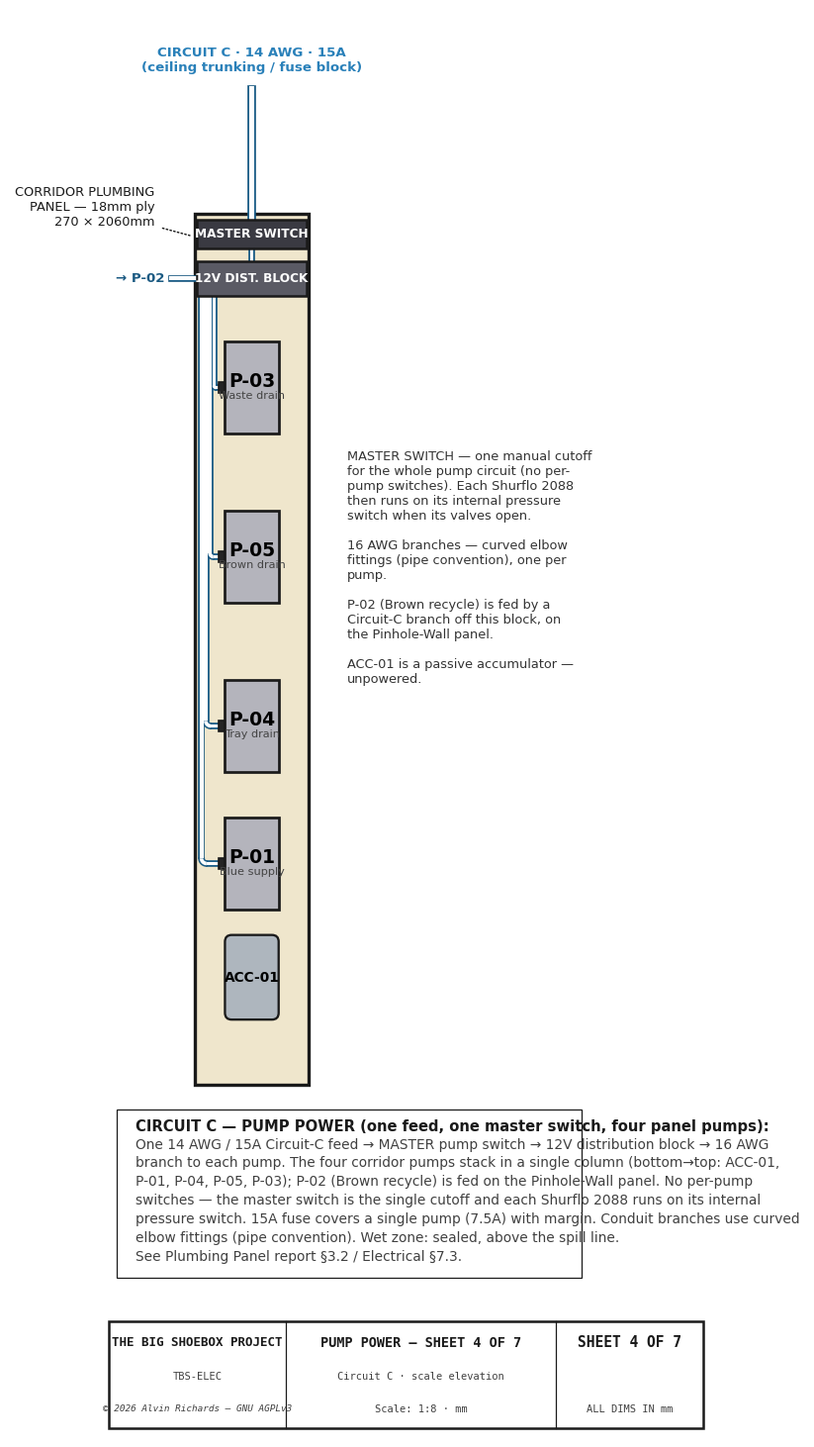
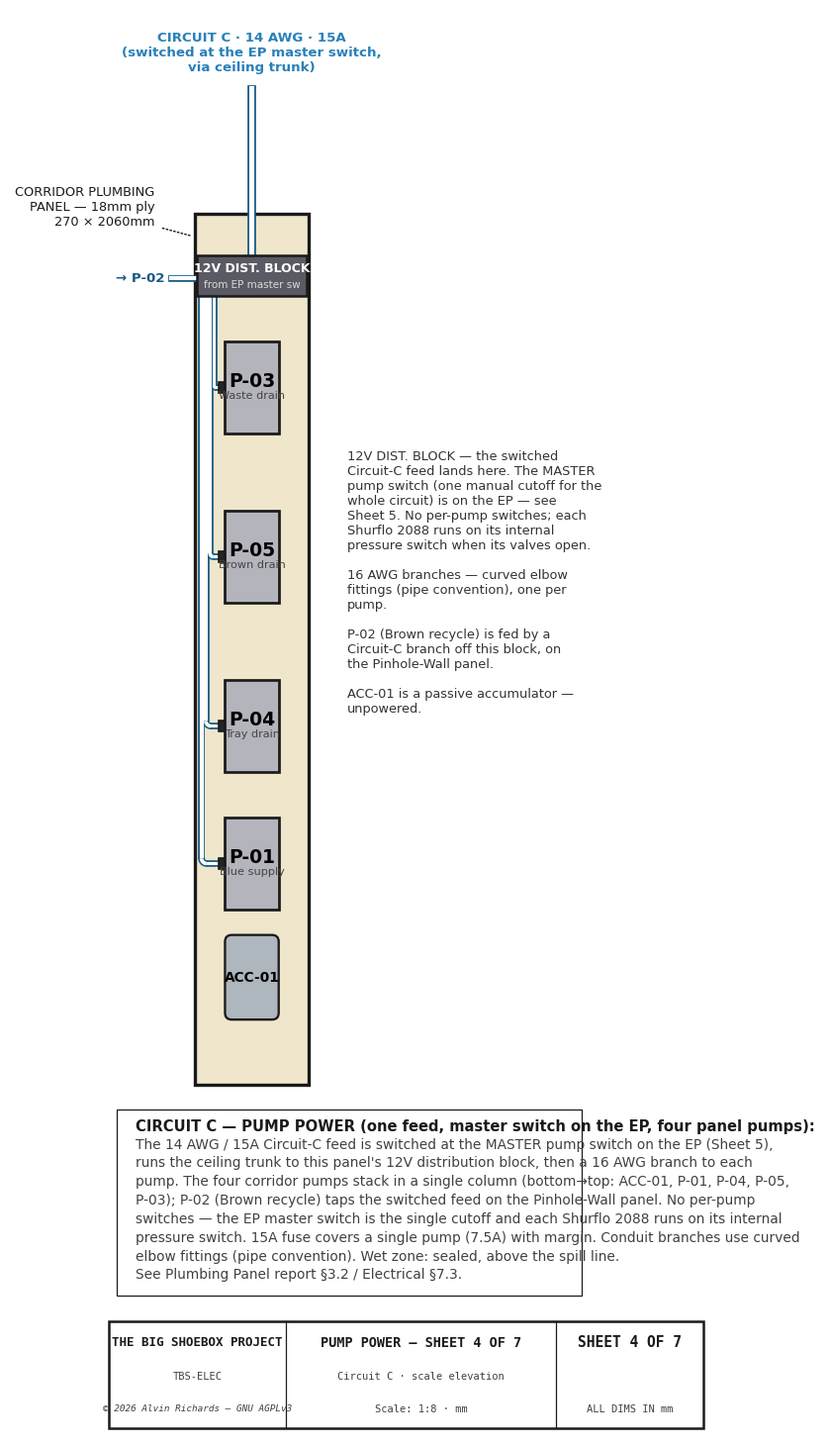
electrical: cascade master pump switch onto the EP (2D + reports + 3D code)
The pump master switch moved from the corridor plumbing panel to the Electrical Panel (EP)
— one upstream cutoff for the whole pump circuit; the corridor panel keeps only the 12V
distribution block (fed from the EP), and P-02 taps the switched feed. Cascade:
- 2D: electrical-sheet4 (pump power) — removed the master-switch bar, feed now arrives from
  the EP master switch into the dist block; electrical-sheet5 (EP layout) — added the red-lever
  master pump switch on the EP, fed from the Cct-C fuse, exiting to the pumps. (Also fixed the
  sheet-5 fuse-schedule label Equip->Plumbing panel.)
- Reports: electrical §7.3/§7.4 sheet4+sheet5 captions/§8 parts rows; plumbing §3.2 + §Access.
  Fixed stale §8 footnote figures (5 pump switches->1 master; $1,015->$989 = $2,324; $45->$25).
- parts.py: master-switch spec notes 'mounted on the EP' (qty/cost unchanged; parts+costing green).
- 3D code: electrical model _pump_circuit + overview electrical() — master switch box + red lever
  on the EP front at the Cct-C fuse (removed the old equipment-panel switch). Needs --send.

Gates: lint + parts/costing checks + check_consistency green.

diff --git a/src/generators/generate_electrical_diagram.py b/src/generators/generate_electrical_diagram.py
@@ -1416,9 +1416,10 @@ def draw_sheet4():
 
     Engineering elevation of the corridor plumbing panel (matches panel-layout.png):
     the single vertical pump column (ACC-01 + P-01/P-04/P-05/P-03) drawn to scale,
-    powered from ONE master switch → 12V distribution block → curved-elbow branches
-    to each pump. No per-pump switches — each Shurflo runs on its internal pressure
-    switch; the master switch is the single manual cutoff. P-02 (Brown recycle) is on
+    powered from a 12V distribution block that is fed from the MASTER pump switch on
+    the EP (electrical panel) via the ceiling trunk → curved-elbow branches to each
+    pump. No per-pump switches — each Shurflo runs on its internal pressure switch;
+    the EP master switch is the single manual cutoff. P-02 (Brown recycle) is on
     the pinhole-wall panel, shown as an off-panel branch. Routing follows pipe
     conventions (parallel-wall conduit + curved elbow fittings, never hard corners).
     """
@@ -1458,19 +1459,17 @@ def draw_sheet4():
         ax.add_patch(R((p_left - 15, tz - 13), 15, 26, fc="#242424", ec=C_OUT, lw=0.8, zorder=7))
         term[nm] = (p_left - 15, tz)                      # terminal left face (branch lands here)
 
-    # ── Master switch + 12V distribution block: full-width header bars above P-03 ──
+    # ── 12V distribution block: full-width header bar (fed from the EP master switch) ──
     mcx = PW / 2
-    ax.add_patch(R((6, 1978), PW - 12, 68, fc="#3A3A42", ec=C_OUT, lw=1.2, zorder=7))
-    ax.text(mcx, 2012, "MASTER SWITCH", ha="center", va="center", fontsize=5.8,
+    ax.add_patch(R((6, 1866), PW - 12, 96, fc="#5A5A64", ec=C_OUT, lw=1.2, zorder=7))
+    ax.text(mcx, 1930, "12V DIST. BLOCK", ha="center", va="center", fontsize=6.0,
             color="white", fontweight="bold", zorder=9)
-    ax.add_patch(R((6, 1866), PW - 12, 82, fc="#5A5A64", ec=C_OUT, lw=1.2, zorder=7))
-    ax.text(mcx, 1907, "12V DIST. BLOCK", ha="center", va="center", fontsize=5.8,
-            color="white", fontweight="bold", zorder=9)
-    draw_pipe_path(ax, [mcx, mcx], [1978, 1948], 12, 2.0, fc=CC, ec=CDK, zorder=5)   # switch → block
+    ax.text(mcx, 1892, "from EP master sw", ha="center", va="center", fontsize=5.0,
+            color="#DADADA", zorder=9)
 
-    # ── Circuit-C feed from ceiling trunking into the master switch ──
-    draw_pipe_path(ax, [mcx, mcx], [PH + 300, 2046], 17, 2.5, fc=CC, ec=CDK, zorder=5)
-    ax.text(mcx, PH + 330, "CIRCUIT C · 14 AWG · 15A\n(ceiling trunking / fuse block)",
+    # ── Circuit-C feed (switched at the EP master switch) into the block ──
+    draw_pipe_path(ax, [mcx, mcx], [PH + 300, 1962], 17, 2.5, fc=CC, ec=CDK, zorder=5)
+    ax.text(mcx, PH + 330, "CIRCUIT C · 14 AWG · 15A\n(switched at the EP master switch,\nvia ceiling trunk)",
             ha="center", va="bottom", fontsize=6.4, color=CC, fontweight="bold")
 
     # ── Curved-elbow branch conduits: block → each pump terminal. Own lane each, longest
@@ -1487,8 +1486,9 @@ def draw_sheet4():
 
     # ── Right-side callouts ──
     ax.text(PW + 90, 1500,
-            "MASTER SWITCH — one manual cutoff\nfor the whole pump circuit (no per-\npump switches). Each Shurflo 2088\n"
-            "then runs on its internal pressure\nswitch when its valves open.\n\n"
+            "12V DIST. BLOCK — the switched\nCircuit-C feed lands here. The MASTER\npump switch (one manual cutoff for the\n"
+            "whole circuit) is on the EP — see\nSheet 5. No per-pump switches; each\nShurflo 2088 runs on its internal\n"
+            "pressure switch when its valves open.\n\n"
             "16 AWG branches — curved elbow\nfittings (pipe convention), one per\npump.\n\n"
             "P-02 (Brown recycle) is fed by a\nCircuit-C branch off this block, on\nthe Pinhole-Wall panel.\n\n"
             "ACC-01 is a passive accumulator —\nunpowered.",
@@ -1499,11 +1499,12 @@ def draw_sheet4():
 
     # ── Notes + title block (clear band below the panel) ──
     draw_notes(ax, [
-        "CIRCUIT C — PUMP POWER (one feed, one master switch, four panel pumps):",
-        "One 14 AWG / 15A Circuit-C feed → MASTER pump switch → 12V distribution block → 16 AWG",
-        "branch to each pump. The four corridor pumps stack in a single column (bottom→top: ACC-01,",
-        "P-01, P-04, P-05, P-03); P-02 (Brown recycle) is fed on the Pinhole-Wall panel. No per-pump",
-        "switches — the master switch is the single cutoff and each Shurflo 2088 runs on its internal",
+        "CIRCUIT C — PUMP POWER (one feed, master switch on the EP, four panel pumps):",
+        "The 14 AWG / 15A Circuit-C feed is switched at the MASTER pump switch on the EP (Sheet 5),",
+        "runs the ceiling trunk to this panel's 12V distribution block, then a 16 AWG branch to each",
+        "pump. The four corridor pumps stack in a single column (bottom→top: ACC-01, P-01, P-04, P-05,",
+        "P-03); P-02 (Brown recycle) taps the switched feed on the Pinhole-Wall panel. No per-pump",
+        "switches — the EP master switch is the single cutoff and each Shurflo 2088 runs on its internal",
         "pressure switch. 15A fuse covers a single pump (7.5A) with margin. Conduit branches use curved",
         "elbow fittings (pipe convention). Wet zone: sealed, above the spill line.",
         "See Plumbing Panel report §3.2 / Electrical §7.3.",
@@ -1526,8 +1527,8 @@ def draw_sheet5():
 
     TRUE-SCALE front elevation (mm, equal aspect) of the IP65 enclosure interior —
     mirrors the 3D model's `power_core` arrangement (MPPT, the A-G blade-fuse stack,
-    +/- busbars, rotary main disconnect) — with the internal feed one-line and a fuse
-    schedule. BOTH axes are real mm: enclosure-relative X (0 = enclosure left = EP_X),
+    +/- busbars, rotary main disconnect, Circuit-C master pump switch) — with the
+    internal feed one-line and a fuse schedule. BOTH axes are real mm: enclosure-relative X (0 = enclosure left = EP_X),
     Z = real height. Component sizes/positions read from tbs_constants (same as the 3D).
     """
     from tbs_constants import (EP_H_LO, EP_H_HI, EP_W, MPPT_W, MPPT_H,
@@ -1537,7 +1538,7 @@ def draw_sheet5():
     CIRCUITS5 = [
         ("A", "Vent fan — exhaust",  "5A",  "16 AWG", "60 W",   "#C0392B"),
         ("B", "Vent fan — intake",   "5A",  "16 AWG", "60 W",   "#E67E22"),
-        ("C", "Equip panel (pumps)", "15A", "14 AWG", "100 W",  "#2980B9"),
+        ("C", "Plumbing panel (pumps)", "15A", "14 AWG", "100 W",  "#2980B9"),
         ("D", "Safelight",           "5A",  "18 AWG", "15 W",   "#8E44AD"),
         ("E", "Evap cooler (inv.)",  "40A", "10 AWG", f"{EVAP_COOLER_W_BUS} W",   "#16A085"),
         ("F", "Actuators (spare)",   "20A", "12 AWG", "≤100 W", "#7F8C8D"),
@@ -1606,6 +1607,24 @@ def draw_sheet5():
     varrow(ax, 45, bbn, eh0 + 4, col="#2C2C2C", lw=1.5)              # (−) return
     ax.text(45, eh0 - 6, "(−) return", ha="center", va="top", fontsize=5.4, color="#2C2C2C", fontweight="bold")
 
+    # ── Circuit-C MASTER PUMP SWITCH — single manual cutoff for the whole pump circuit,
+    #    mounted here on the EP (relocated from the corridor panel). Red-lever IP disconnect:
+    #    the Circuit-C fuse output is switched here before leaving for the pumps (Sheet 4). ──
+    cc = "#2980B9"
+    msw_x, msw_z, msw_w, msw_h = 214, 1944, 72, 82
+    c_cx = fb_x0 + 2.5 * pitch                            # Circuit-C blade center
+    c_top = base_z + fbase_h + fuse_h + 36               # top of the C blade up-line
+    ax.plot([c_cx, c_cx, msw_x], [c_top, msw_z + 22, msw_z + 22], color=cc, lw=1.5, zorder=4)  # Cct-C fuse → switch
+    ax.add_patch(R((msw_x, msw_z), msw_w, msw_h, fc="#202020", ec=C_OUT, lw=1.2, zorder=6))
+    ax.add_patch(R((msw_x + msw_w / 2 - 9, msw_z + 12), 18, 42, fc="#C0202A", ec=C_OUT, lw=0.8, zorder=7))  # red lever
+    ax.text(msw_x + msw_w / 2, msw_z + msw_h - 11, "MASTER", ha="center", va="center", fontsize=4.5,
+            color="white", fontweight="bold", zorder=8)
+    ax.text(msw_x + msw_w / 2, msw_z - 10, "PUMP SW · Cct C", ha="center", va="top", fontsize=5.0,
+            color="#C0202A", fontweight="bold", zorder=8)
+    varrow(ax, msw_x + msw_w / 2, msw_z + msw_h, eh1 + 34, col=cc, lw=1.8)       # switch → out to trunk
+    ax.text(msw_x + msw_w / 2 + 10, eh1 + 30, "→ ceiling trunk → pumps (Sheet 4)", ha="left", va="top",
+            fontsize=5.4, color=cc, fontweight="bold")
+
     # ── Fuse schedule table (right, same mm coordinate space) ──
     tx = 400
     th = eh1 - 50                                        # header Z
@@ -1629,6 +1648,7 @@ def draw_sheet5():
     ax.plot([tx - 20, tx + 790], [botline, botline], color=C_OUT, lw=0.8)
     ax.text(tx, botline - 44,
             "Feed: Battery (+) → 200A MRBF → main disconnect (Blue Sea m-Series) → (+) busbar → fuse block.\n"
+            "Circuit C is switched at the on-panel MASTER PUMP SWITCH before it leaves for the pumps (Sheet 4).\n"
             "Charge: PV array → MPPT 100/50 → busbars.  Layout mirrors the 3D model; ratings per Sheet 1.",
             ha="left", va="top", fontsize=6.2, color="#333")
 

diff --git a/src/models/generate_electrical_model.py b/src/models/generate_electrical_model.py
@@ -141,7 +141,7 @@ ELEC_POINT_LABELS = [
     (EVAP_DUCT_X, -WALL - EVAP_D / 2 - 120, EVAP_H,
      "EVAP COOLER\n(Hessaire MC18M, Cct E)", -260, -520, 520),
     (EQPANEL_X, EQPANEL_YD + EQPANEL_YD_SPAN / 2, PUMP_H_HI - 40,
-     "CCT-C PUMP DISTRIBUTION\nmaster switch → pumps (one at a time)", -350, -700, 250),
+     "CCT-C PUMP DISTRIBUTION\ndist block → pumps (master sw on EP)", -350, -700, 250),
     (PWR_PANEL_X + 0.42 * PWR_PANEL_W, 35, PWR_PANEL_Z + 0.07 * PWR_PANEL_H,
      "PV DISCONNECT\n(load-break, array->MPPT)", 300, -560, 320),
     (EP_X + 40, 95, EP_H_LO + 215, "60A CHARGE FUSE\n(MPPT -> battery)", 440, -680, 160),
@@ -412,9 +412,10 @@ def inverter():
 
 
 def _pump_circuit():
-    """Circuit C: feed → ONE master pump switch + 12V distribution block on the equipment
-    panel → a 16 AWG branch DIRECTLY to each Shurflo pump. No per-pump switches — each pump
-    runs on its internal demand/pressure switch; the master switch is the single manual cutoff.
+    """Circuit C: the MASTER pump switch is on the EP (single manual cutoff, upstream of
+    everything); the switched feed runs the ceiling trunk to a 12V distribution wireway/block
+    on the equipment panel → a 16 AWG branch DIRECTLY to each Shurflo pump. No per-pump switches
+    — each pump runs on its internal demand/pressure switch.
     (NB: pump reference positions here are still the legacy 2-column layout — the single-column
     re-org to match panel-layout.png is a separate follow-up.)"""
     col = CCT["C"][0]
@@ -427,13 +428,15 @@ def _pump_circuit():
     # Distribution WIREWAY — a vertical channel down the panel that covers every branch tap.
     p = [ov.ruby_box("Cct C distribution wireway", EQPANEL_X - 25, cy - 35, way_bot,
                      50, 70, way_top - way_bot, color="#2B2B30")]
-    p.append(_run("C", (EQPANEL_X, cy, way_top - 25)))   # feed → top of the wireway
-    # ONE master pump switch on the panel face (-X), near the top of the wireway.
-    swx, msz = EQPANEL_X - 120, way_top - 110
-    p.append(ov.ruby_box("Master pump switch (Cct C)", swx - 25, cy - 25, msz, 50, 50, 50,
-                         color="#202020"))
-    p.append(ov.ruby_pipe_run("Cct C master-switch tap",
-             _dedup([(EQPANEL_X, cy, msz + 25), (swx, cy, msz + 25)]), 6, color=col))
+    # MASTER PUMP SWITCH — on the EP front at the Circuit-C fuse (single cutoff, upstream of
+    # everything; relocated from the equipment panel). Red-lever disconnect; the switched feed
+    # then runs the ceiling trunk to the wireway.
+    mfx, _mfy, mfz = FUSE_POS["C"]
+    p.append(ov.ruby_box("Master pump switch (Cct C, on EP)", mfx - 25, ENCL_FRONT_YD, mfz - 44,
+                         50, 46, 84, color="#202020"))
+    p.append(ov.ruby_box("Master switch lever (OFF cutoff)", mfx - 8, ENCL_FRONT_YD + 46, mfz - 4,
+                         16, 34, 16, color="#C0202A"))
+    p.append(_run("C", (EQPANEL_X, cy, way_top - 25)))   # switched feed → top of the wireway
     for nm, yd, z in pumps:
         # branch taps the wireway at THIS pump's level → straight to the pump (no per-pump switch)
         br = _dedup([(EQPANEL_X, cy, z + 60), (EQPANEL_X, yd, z + 60)])

diff --git a/src/models/generate_sketchup_model.py b/src/models/generate_sketchup_model.py
@@ -1535,6 +1535,15 @@ def electrical():
         parts.append(ruby_box(f"Fuse {c} ({ep_fuse_rating[c]} — {ep_load[c]})",
                               cx - fuse_w / 2, fuse_yd, fblk_z0 + fbase_h,
                               fuse_w, fuse_t, fuse_h, color=ep_cct[c]))
+    # Circuit-C MASTER PUMP SWITCH — single cutoff for the whole pump circuit, on the EP front
+    # at the Circuit-C fuse (relocated from the corridor panel). Red-lever disconnect; mirrors
+    # electrical.skp. The switched Cct-C then runs the ceiling trunk to the pump panel.
+    msw_cx = fblk_x0 + 2.5 * fuse_pitch
+    msw_z = fblk_z0 + fbase_h + fuse_h - 44
+    parts.append(ruby_box("Master pump switch (Cct C, on EP)",
+                          msw_cx - 25, ENCL_SHELL_D, msw_z, 50, 46, 84, color="#202020"))
+    parts.append(ruby_box("Master switch lever (OFF cutoff)",
+                          msw_cx - 8, ENCL_SHELL_D + 46, msw_z + 40, 16, 34, 16, color="#C0202A"))
     # +/- distribution busbars.
     parts.append(ruby_box("Busbar (+)", EP_X + 15, 30, ez + 205,
                           BUSBAR_L, BUSBAR_W, BUSBAR_H, color="#C0392B"))

diff --git a/src/generators/parts.py b/src/generators/parts.py
@@ -406,7 +406,7 @@ PARTS: list[Part] = [
     Part("wet-zone-connectors", "Sealed wet-zone connectors — Deutsch DT / adhesive heat-shrink",
          "electrical-distribution", "electrical", 1, "lot", 25, 25, "Waytek Wire"),
     Part("pump-switches", "Master pump switch (Circuit C) — IP67 sealed rocker/disconnect 12V 16A", "electrical-distribution",
-         "electrical", 1, "ea", 10, 10, "Amazon", "Waytek Wire", spec="One manual cutoff for the whole pump circuit (per-pump switches removed; each Shurflo runs on its internal pressure switch)"),
+         "electrical", 1, "ea", 10, 10, "Amazon", "Waytek Wire", spec="One manual cutoff for the whole pump circuit, mounted on the EP (per-pump switches removed; each Shurflo runs on its internal pressure switch)"),
     Part("pump-dist-block", "Pump distribution block — 12V DC + / − bus, 6-way", "electrical-distribution",
          "electrical", 1, "ea", 15, 15, "Blue Sea", "Amazon"),
     Part("dielectric-grease", "Dielectric grease, marine-grade (terminal protection)", "adhesives-finishes",

diff --git a/electrical-report.md b/electrical-report.md
@@ -260,7 +260,7 @@ Top-down floor plan (1:60 scale) showing all component positions, conduit routes
 - Exterior penetrations (fans, shore inlet): Deutsch DT series 2-pin weatherproof connectors — IP67 rated. (The cooler is **120V AC** and terminates at the panel's GFCI-fed weatherproof outlet, **not** a DT connector — see Circuit E below and §7.6.)
 - **Circuit B flex connector (panel-mounted intake fan):** Fan B is mounted low on the swinging hinged panel. The wire run from the fuse block routes along the ceiling trunking to the fixed door frame, then crosses to the panel via a 1m coiled cable (16 AWG, 2-conductor, silicone-jacketed) with Deutsch DT 2-pin connectors at each end. The coiled cable must accommodate the ~56° transport swing about the pivot (with slack) without binding. Anchor the fixed end to the door frame top rail; anchor the panel end to the swinging frame near the pivot. The service loop hangs in the ceiling zone above and the wire drops down the panel to the low fan.
 - **Circuit E (evaporative cooler, via inverter):** The cooler is a 120V AC unit operating outside the container during sessions. The **DC side** is short: a fused 10 AWG feed (~1m) from the fuse block to the wall-mounted inverter, with its own DC disconnect. The **AC side** runs from the inverter's GFCI output along the ceiling trunking, down the pinhole wall to the external power panel, and terminates at the panel's weatherproof GFCI-fed NEMA 5-15R outlet (in-use cover). On the exterior, a 1.5m outdoor-rated SJOOW cord (NEMA 5-15P each end) connects the outlet to the cooler. The cord is unplugged and stowed inside for transport. Full grounding/GFCI design in §7.6.
-- **Circuit C (water pumps P-01–P-05):** The single 14 AWG Circuit-C feed runs along the ceiling trunking and drops to the Corridor Plumbing Panel in the IBC plumbing corridor. There it lands on a **master pump switch** — one IP-rated manual cutoff for the whole pump circuit — then a **12V DC distribution block** (positive bus + shared negative bus) that feeds each pump directly via a short **16 AWG** branch (~0.5–1m; 7.5A per pump). The four corridor pumps stack in a single column (bottom→top: ACC-01, P-01, P-04, P-05, P-03); P-02 (Brown recycle) is fed by a Circuit-C branch on the Pinhole-Wall panel. There are **no per-pump switches** — each Shurflo 2088 runs on its **internal demand/pressure switch** when its valves open, and the pumps are sequenced by opening the relevant valves (**one at a time**; simultaneous operation is not intended). The 15A circuit fuse protects the 14 AWG feed and covers a single pump (90W / 7.5A) with margin. The master switch and distribution block are in the wet zone — IP-rated, sealed, mounted above the spill line with drip loops (§7.5).
+- **Circuit C (water pumps P-01–P-05):** The single 14 AWG Circuit-C feed is switched at a **master pump switch on the Electrical Panel (EP)** — one IP-rated manual cutoff for the whole pump circuit, upstream of everything — then runs along the ceiling trunking to a **12V DC distribution block** (positive bus + shared negative bus) on the rear of the Corridor Plumbing Panel, which feeds each corridor pump directly via a short **16 AWG** branch (~0.5–1m; 7.5A per pump). The four corridor pumps stack in a single column (bottom→top: ACC-01, P-01, P-04, P-05, P-03); P-02 (Brown recycle) taps the switched feed on the Pinhole-Wall panel. There are **no per-pump switches** — each Shurflo 2088 runs on its **internal demand/pressure switch** when its valves open, and the pumps are sequenced by opening the relevant valves (**one at a time**; simultaneous operation is not intended). The 15A circuit fuse protects the 14 AWG feed and covers a single pump (90W / 7.5A) with margin. The distribution block is in the wet zone — IP-rated, sealed, mounted above the spill line with drip loops (§7.5); the master switch is on the EP, clear of the wet zone.
 
 **Grounding:** Bond the container steel body to the battery negative busbar using 4 AWG green/yellow wire at the main enclosure. Drive an 8-foot copper ground stake at the container foundation and connect to the main enclosure earth terminal. The inverter chassis, AC equipment-ground, and cooler ground bond to this same single point — see §7.6.
 
@@ -278,12 +278,12 @@ Interior elevation of the pinhole wall face, looking from inside the container. 
 ![TBS-ELEC Sheet 3 — Pinhole Wall Interior Elevation](assets/electrical-sheet3.png)
 
 **Sheet 4 — Plumbing-Panel Pump Power (Circuit C)**
-Scale engineering elevation of the Circuit-C pump distribution on the corridor plumbing panel (matches the [panel-layout](panel-layout.md) elevation): the single 14 AWG / 15A feed → **master pump switch** → 12V distribution block → a 16 AWG **curved-elbow** branch to each of the four column pumps (bottom→top ACC-01, P-01, P-04, P-05, P-03; P-02 is fed on the Pinhole-Wall panel). No per-pump switches — the master switch is the single cutoff and each Shurflo runs on its internal pressure switch. See §7.3 (Circuit C) and the [Plumbing Panel report §3.2](plumbing-report.md).
+Scale engineering elevation of the Circuit-C pump distribution on the corridor plumbing panel (matches the [panel-layout](panel-layout.md) elevation): the switched 14 AWG / 15A feed (from the **master pump switch on the EP** — Sheet 5) → 12V distribution block → a 16 AWG **curved-elbow** branch to each of the four column pumps (bottom→top ACC-01, P-01, P-04, P-05, P-03; P-02 is fed on the Pinhole-Wall panel). No per-pump switches — the EP master switch is the single cutoff and each Shurflo runs on its internal pressure switch. See §7.3 (Circuit C) and the [Plumbing Panel report §3.2](plumbing-report.md).
 
 ![TBS-ELEC Sheet 4 — Plumbing-Panel Pump Power (Circuit C)](assets/electrical-sheet4.png)
 
 **Sheet 5 — Main Enclosure Panel Layout**
-Front elevation of the IP65 enclosure interior (the 2D companion to the electrical 3D model's `power_core`): MPPT on top, the color-coded A–G blade-fuse stack on the Blue Sea 5026, the +/− busbars and the rotary main disconnect, with the internal feed one-line (Battery(+) → 200A MRBF → main disconnect → (+) busbar → fuse stack → circuits) and the PV-charge path. Includes a fuse schedule (position / circuit / rating / wire / load). See §7.1.
+Front elevation of the IP65 enclosure interior (the 2D companion to the electrical 3D model's `power_core`): MPPT on top, the color-coded A–G blade-fuse stack on the Blue Sea 5026, the +/− busbars, the rotary main disconnect, and the **Circuit-C master pump switch** (the single pump cutoff, relocated here from the corridor panel — red-lever IP disconnect), with the internal feed one-line (Battery(+) → 200A MRBF → main disconnect → (+) busbar → fuse stack → circuits) and the PV-charge path. Includes a fuse schedule (position / circuit / rating / wire / load). See §7.1 and §7.3.
 
 ![TBS-ELEC Sheet 5 — Main Enclosure Panel Layout + Fuse Schedule](assets/electrical-sheet5.png)
 
@@ -392,8 +392,8 @@ All US/SoCal sources. Prices approximate as of 2026.
 | Shore-charger output fuse | 20A inline on the charger DC output lead | Amazon | ~$5 |
 | Battery terminal covers (pair) | Insulating boots over + / − posts/busbar | Amazon | ~$10 |
 | Sealed wet-zone connectors | Deutsch DT / adhesive-lined heat-shrink, pump circuits | Waytek Wire | ~$25 |
-| Master pump switch (Circuit C) | 1× IP67 sealed rocker/disconnect, 12V 16A — single cutoff for the whole pump circuit | Amazon / Waytek Wire | ~$10 |
-| Pump distribution block | 12V DC positive bus + negative bus (6-way), panel-mount, in the Corridor Plumbing Panel | Blue Sea / Amazon | ~$15 |
+| Master pump switch (Circuit C) | 1× IP67 sealed rocker/disconnect, 12V 16A — single cutoff for the whole pump circuit, **mounted on the EP** | Amazon / Waytek Wire | ~$10 |
+| Pump distribution block | 12V DC positive bus + negative bus (6-way), panel-mount on the rear of the Corridor Plumbing Panel, fed from the EP master switch | Blue Sea / Amazon | ~$15 |
 | Dielectric grease | Marine-grade — chemistry-vapor terminal protection | Amazon | ~$10 |
 | Tinned marine wire (wet-zone runs) | 14/16 AWG tinned copper, ~25ft | Waytek Wire | ~$30 |
 | Cable grommets / glands | Steel-shell penetrations (chafe protection) | McMaster-Carr | ~$15 |
@@ -424,7 +424,7 @@ All US/SoCal sources. Prices approximate as of 2026.
 | **Cooling (cooler + inverter + DC protection + AC outlet + cord)** | | | **~<!-- BEGIN costing:elec-cooling-total -->$425<!-- END costing:elec-cooling-total -->** |
 | **Systems grand total** | | | **~<!-- BEGIN costing:elec-grand-total -->$2,949<!-- END costing:elec-grand-total -->** |
 
-*Electrical system total is the **standard 1-pack build** and matches the consolidated [Master Shopping List §6](master-shopping-list.md) (Solar & battery $1,335 + Distribution & wiring $1,015 = $2,350, the authoritative electrical BOM). The optional 2nd battery pack adds +$375 (its own MRBF fuse). It includes ~$410 of circuit-protection / wet-zone-sealing hardware added per the [Electrical Safety Report](electrical-safety-report.md) §5 (interior **+** exterior emergency cut-offs + battery contactor, disconnect switch, terminal-mount fuse, **PV array disconnect, MPPT charge-line + shore-charger fuses**, sealed connectors, bonding, grommets), plus ~$45 of Circuit-C pump-control hardware (5 pump switches + distribution block).*
+*Electrical system total is the **standard 1-pack build** and matches the consolidated [Master Shopping List §6](master-shopping-list.md) (Solar & battery $1,335 + Distribution & wiring $989 = $2,324, the authoritative electrical BOM). The optional 2nd battery pack adds +$375 (its own MRBF fuse). It includes ~$410 of circuit-protection / wet-zone-sealing hardware added per the [Electrical Safety Report](electrical-safety-report.md) §5 (interior **+** exterior emergency cut-offs + battery contactor, disconnect switch, terminal-mount fuse, **PV array disconnect, MPPT charge-line + shore-charger fuses**, sealed connectors, bonding, grommets), plus ~$25 of Circuit-C pump-control hardware (1 master pump switch + distribution block).*
 
 ## 9. Maintenance
 

diff --git a/plumbing-report.md b/plumbing-report.md
@@ -38,7 +38,7 @@ three functions:
    connections, and valve positions are organized on one face, minimizing pipe
    runs and simplifying maintenance.
 3. **Accessibility** — the panel faces the open end of the container. The operator approaches from the right walkway
-   and reaches into the 270mm corridor to access valves and pump switches.
+   and reaches into the 270mm corridor to access the valves (the pumps are switched at the EP — §3.2).
 
 ---
 
@@ -136,23 +136,25 @@ P-01 and P-04 draw from the near IBC column, P-03 and P-05 from the far column.
 
 All five pumps run from the **single Circuit C feed** (12V DC, 15A fuse, 14 AWG
 from the Blue Sea fuse block — see [Electrical Report §7.2–7.3](electrical-report.md)).
-At the panel the feed lands on a **master pump switch** (one IP-rated cutoff for the
-whole pump circuit), then a **12V DC distribution block** (positive + shared negative
-bus) at the top of the pump zone; from it a short 16 AWG branch feeds each pump directly.
+Circuit C is switched at a **master pump switch on the Electrical Panel (EP)** — one
+IP-rated cutoff for the whole pump circuit, upstream of everything — then runs the
+ceiling trunk to a **12V DC distribution block** (positive + shared negative bus) on
+the rear of this panel; from it a short 16 AWG branch feeds each pump directly.
 
 | Item | Spec |
 |------|------|
 | Feed | Circuit C, 14 AWG, 15A fuse (one feed for all five pumps) |
-| Master switch | 1 × IP-rated sealed rocker/disconnect (12V, 16A), panel-face-mounted — single cutoff; no per-pump switches (each Shurflo runs on its internal pressure switch) |
-| Distribution | 12V DC + / − bus block at the pump-zone top |
+| Master switch | 1 × IP-rated sealed rocker/disconnect (12V, 16A), **mounted on the EP** — single cutoff upstream of the whole circuit; no per-pump switches (each Shurflo runs on its internal pressure switch) |
+| Distribution | 12V DC + / − bus block on the rear of the plumbing panel, fed from the EP master switch |
 | Branches | 16 AWG, ~0.5–1m, block → pump, curved-elbow conduit (7.5A / 90W per pump) |
 
-The pumps are operated **one at a time**: with the master switch on, the operator
+The pumps are operated **one at a time**: with the EP master switch on, the operator
 opens the relevant ball valves for the current task (others closed), and that pump's
 Shurflo **internal demand/pressure switch** then runs it on demand. The 15A fuse
 covers a single pump with margin; simultaneous running is not intended.
-Switches and the distribution block sit **above the spill line**, IP-rated and sealed,
-with drip loops, per the wet-zone rules in [Electrical Report §7.5](electrical-report.md).
+The distribution block sits **above the spill line**, IP-rated and sealed, with drip
+loops, per the wet-zone rules in [Electrical Report §7.5](electrical-report.md); the
+master switch is on the EP, clear of the wet zone.
 
 **Corridor Plumbing Panel — Front elevation: four pumps, ACC-01, DV-02 diverter, SV-02 sample tap, and full pipe routing**
 ![TBS-001 — Corridor Plumbing Panel Layout](assets/panel-layout.png)
